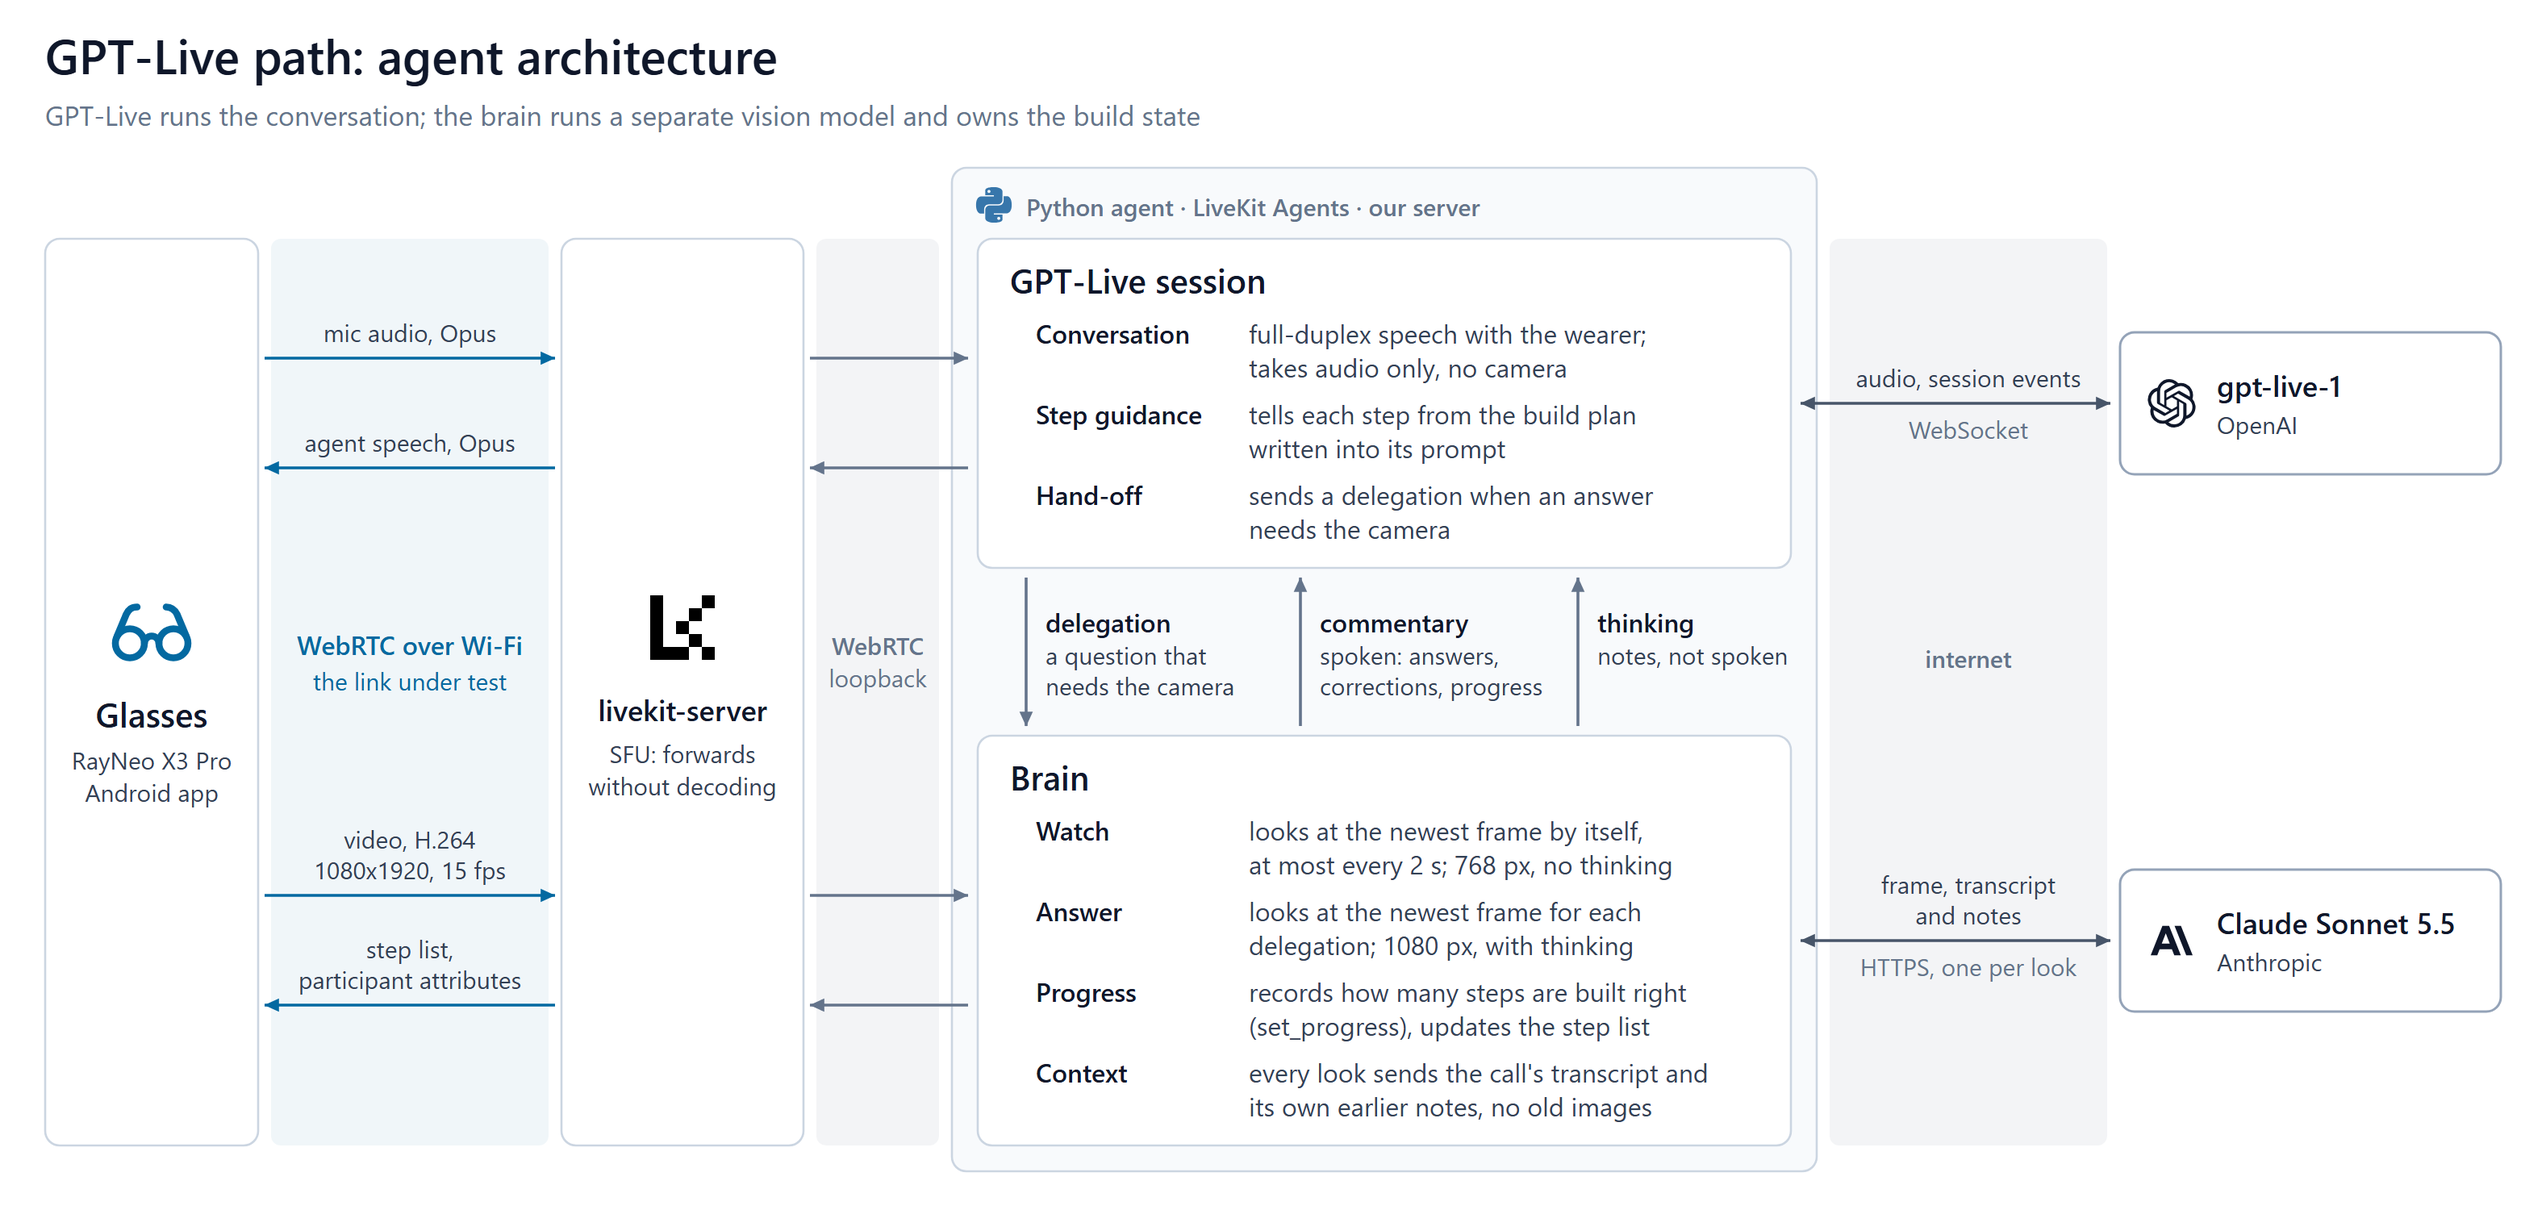
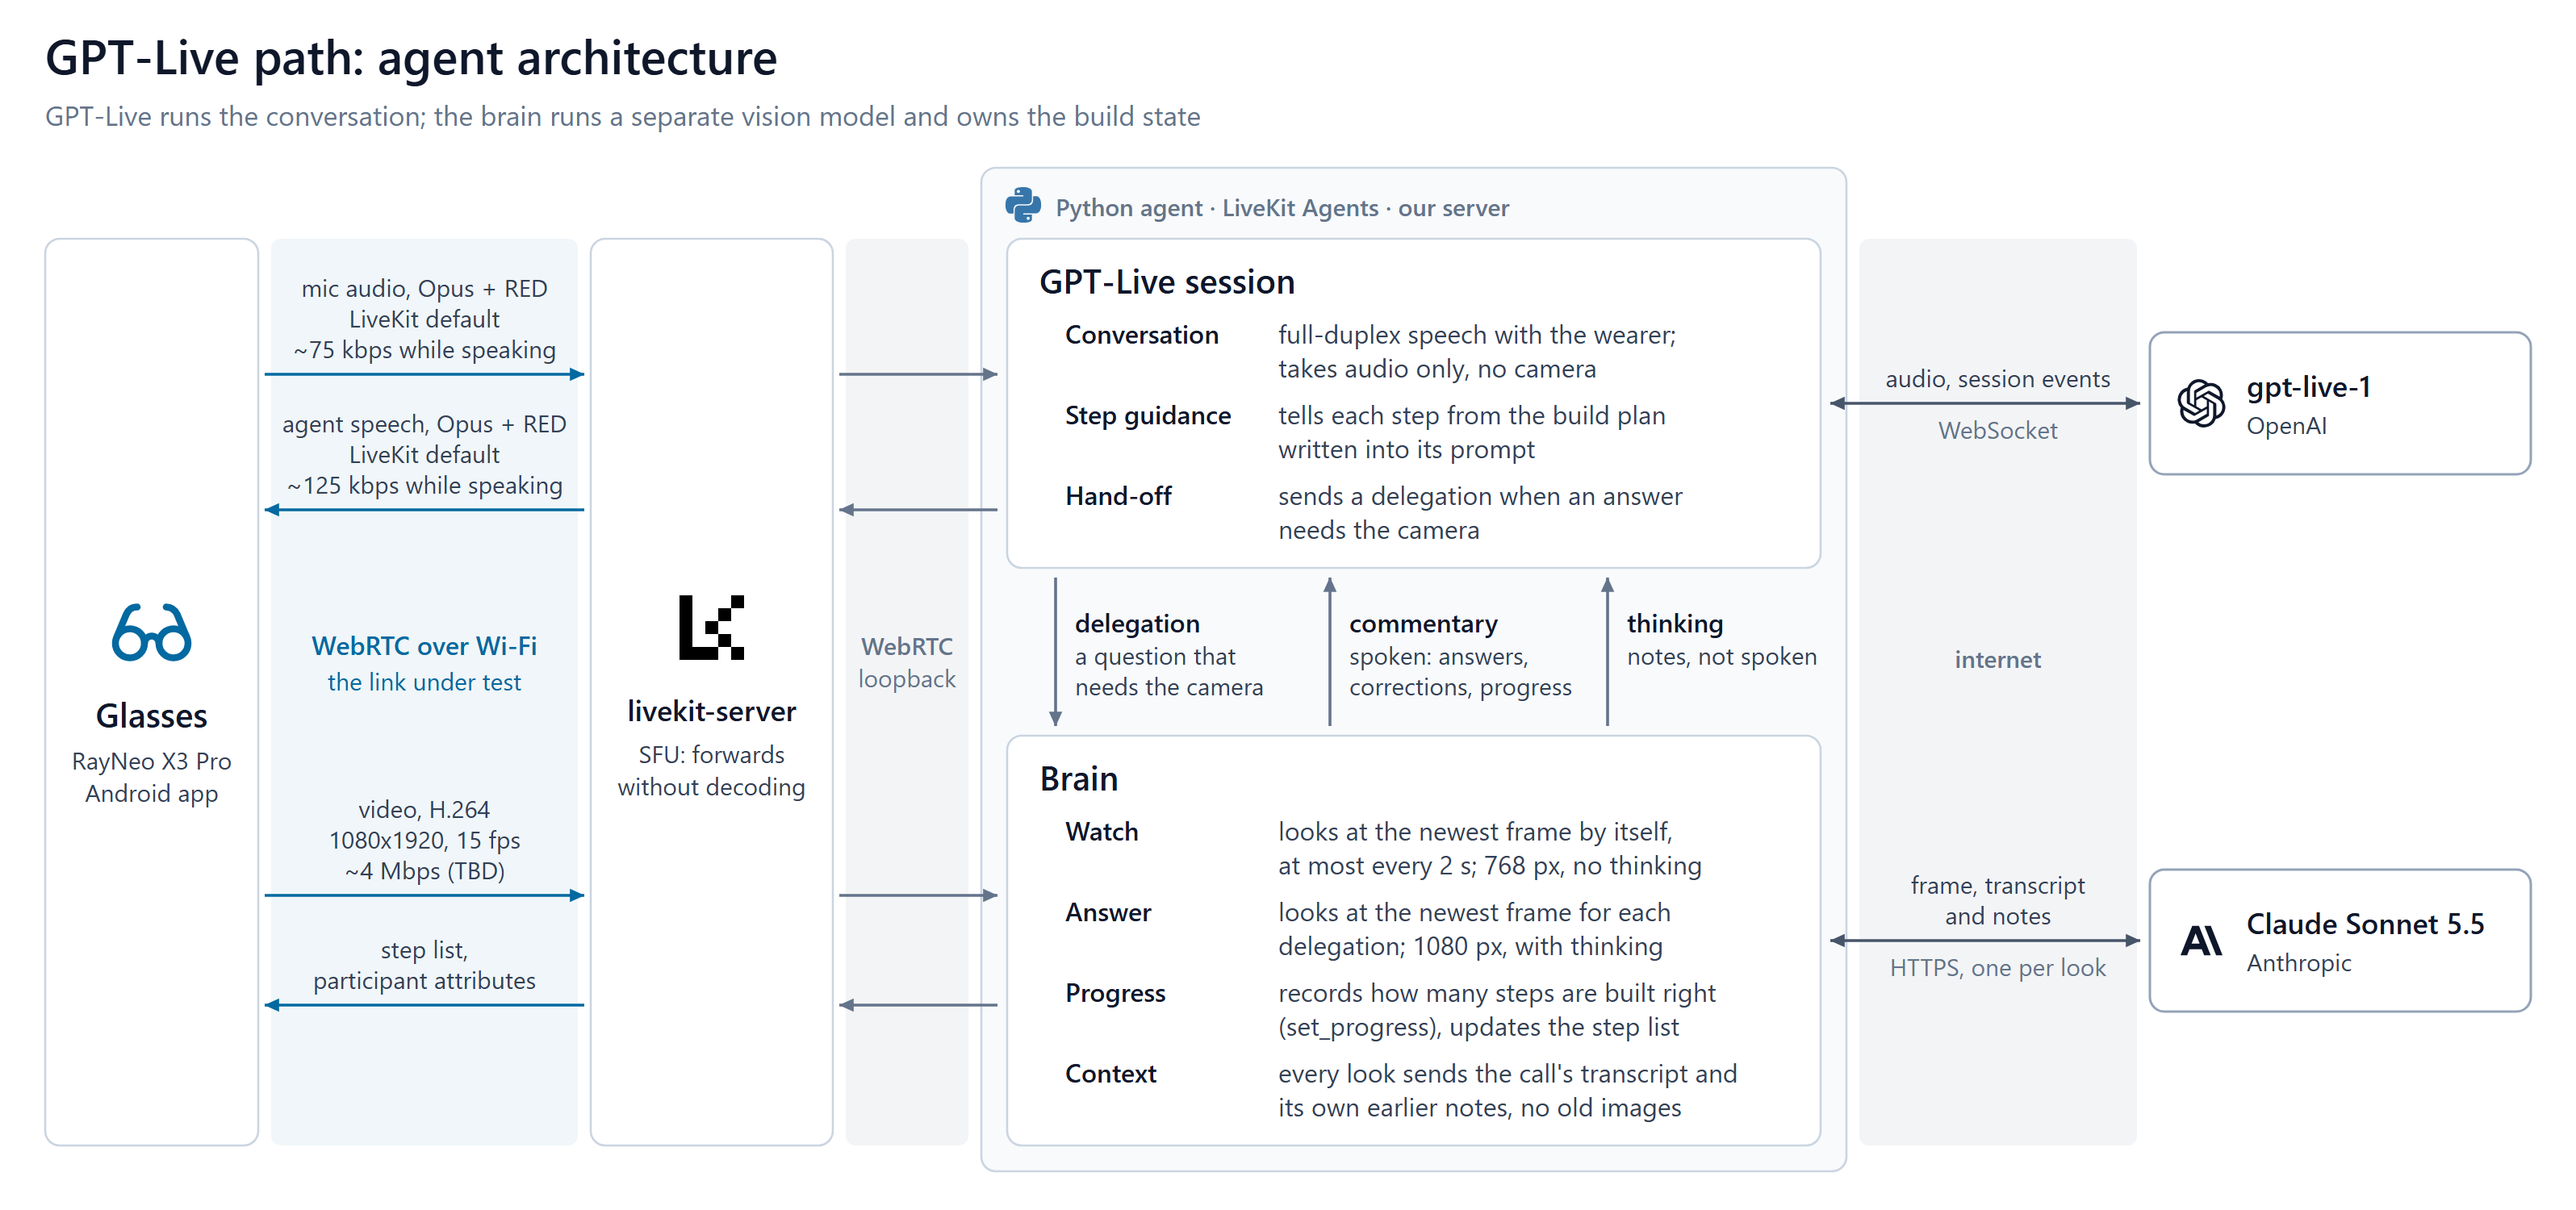
The agent figure gives each link to the glasses its bitrate on the wire, headers included: the two voices, Opus with RED as LiveKit's SDKs publish them by default and sent only while someone speaks, about 75 kbps up and 125 kbps down while speaking, from the 2026-10-16 captures (traffic/summary.md);

diff --git a/docs/make_gpt_live_agent.py b/docs/make_gpt_live_agent.py
@@ -46,7 +46,7 @@ LINK = 204                                       # from a card to its model API 
 
 GX, GW = PAD, 132                                # glasses card
 BX1 = GX + GW + GAP                              # the WebRTC hop under test
-BX2 = BX1 + 172
+BX2 = BX1 + 190
 LX, LW = BX2 + GAP, 150                          # livekit-server: every connection to the glasses goes through it
 LOOP = 92                                        # livekit-server to the agent frame: loopback on our server
 NET = GAP                                        # the internet band stands this far off the frame and the API cards
@@ -82,7 +82,7 @@ GY, GH = SY, RY + RH - SY                        # the glasses card is as tall a
 X_DEL, X_COM, X_THK = CX + 30, CX + 200, CX + 372   # the three wires between them
 KX, KW, KH = CX + CW + LINK, 236, 88             # model API cards
 W, H = int(KX + KW + PAD), int(FY + FH + 24)
-Y_AUDIO_UP, Y_AUDIO_DOWN = SY + SH / 2 - 28, SY + SH / 2 + 40
+Y_AUDIO_UP, Y_AUDIO_DOWN = SY + SH / 2 - 18, SY + SH / 2 + 66
 Y_VIDEO, Y_STEPS = RY + RH / 2 - 28, RY + RH / 2 + 40
 
 
@@ -206,8 +206,12 @@ def build(t: dict) -> str:
     # glasses <-> livekit-server <-> agent: each connection in two legs, labelled on the one under test
     gx1, lx0, lx1, cx0 = GX + GW + 4, LX - 4, LX + LW + 4, CX - 6
     lx = (gx1 + lx0) / 2
-    for y, lines, to_agent in ((Y_AUDIO_UP, ["mic audio, Opus"], True), (Y_AUDIO_DOWN, ["agent speech, Opus"], False),
-                               (Y_VIDEO, ["video, H.264", "1080x1920, 15 fps"], True),
+    # bitrates on the wire, headers included, from the 2026-10-16 captures (traffic/summary.md): both voices are
+    # Opus with RED, each packet carrying the one before, and sent only while someone speaks (DTX), as LiveKit's SDKs
+    # publish them by default; the video's 4 Mbps cap is ours and not settled yet
+    for y, lines, to_agent in ((Y_AUDIO_UP, ["mic audio, Opus + RED", "LiveKit default", "~75 kbps while speaking"], True),
+                               (Y_AUDIO_DOWN, ["agent speech, Opus + RED", "LiveKit default", "~125 kbps while speaking"], False),
+                               (Y_VIDEO, ["video, H.264", "1080x1920, 15 fps", "~4 Mbps (TBD)"], True),
                                (Y_STEPS, ["step list,", "participant attributes"], False)):
         if to_agent:
             wire([(gx1, y), (lx0, y)], t["accent"], "head")
